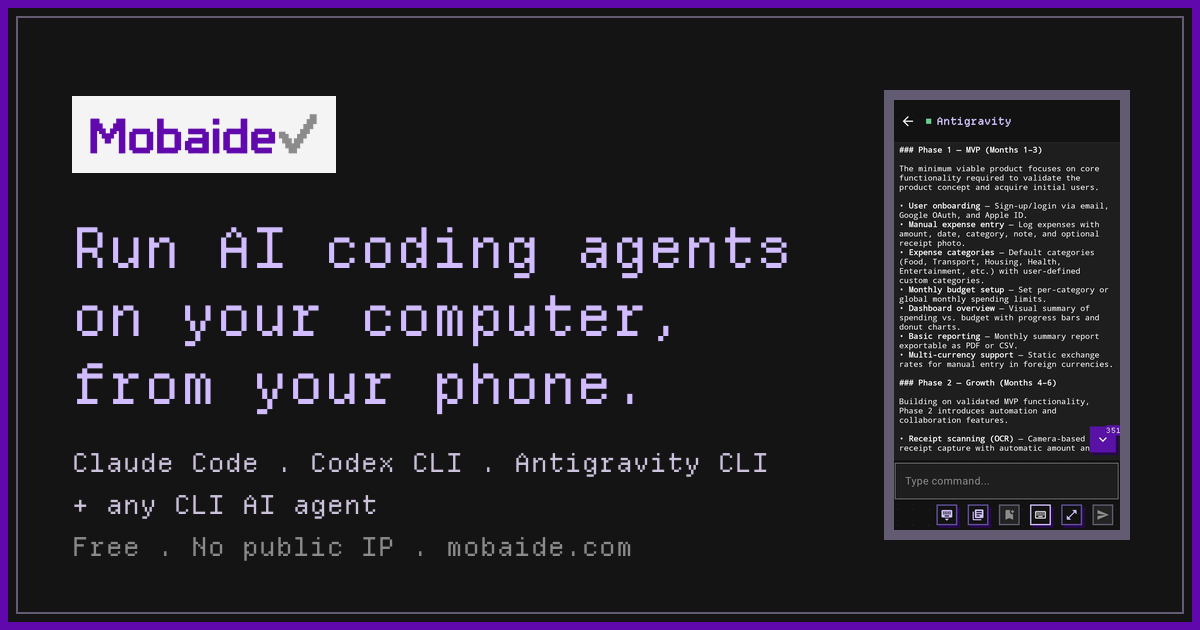
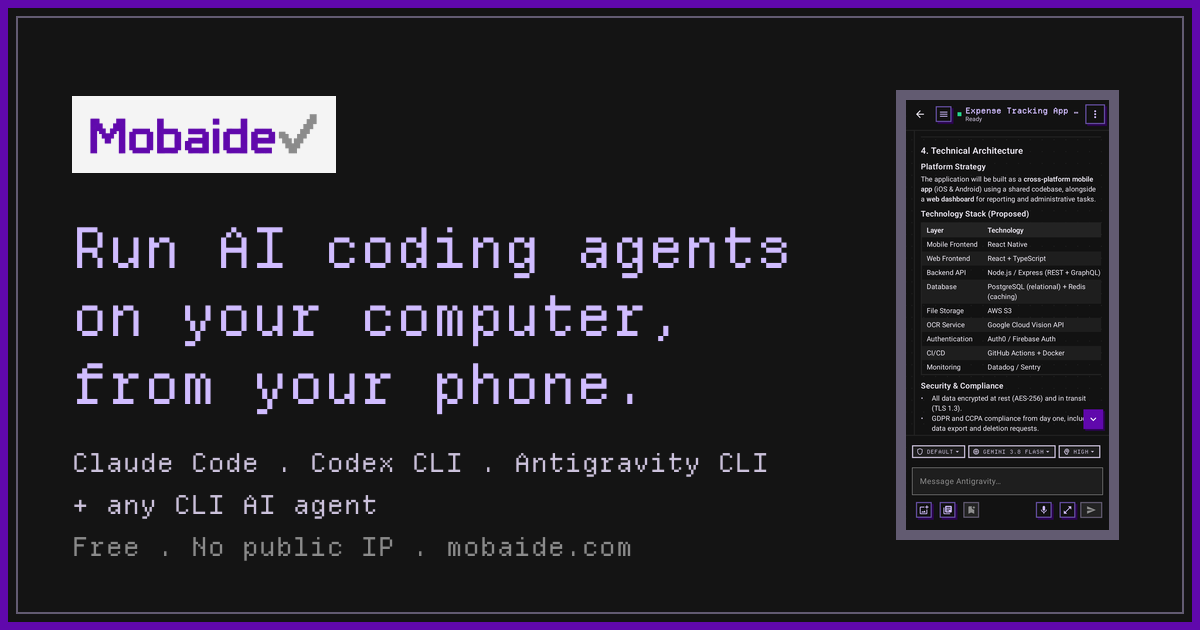
docs: show the ACP chat UI on the website and README
Replace the terminal screenshots with the new chat view: the OG card,
the Android/iOS in-session captures, and the landing hero (now the web
app chat in a browser frame instead of the typewriter terminal mock).
Rewrite the "real terminal" / "real PTY" copy around the chat view,
keeping Terminal UI for the CLI's own interface, shells and custom types.

Changed region(s): [[0.7092, 0.1508, 0.9558, 0.8746]]

diff --git a/central_server/templates/marketing_landing.html b/central_server/templates/marketing_landing.html
@@ -19,7 +19,7 @@
 <meta charset="utf-8">
 <meta name="viewport" content="width=device-width, initial-scale=1">
 <title>Mobaide — run Claude Code, Codex CLI and Antigravity CLI from your phone</title>
-<meta name="description" content="Mobaide turns your phone into a real terminal for AI coding agents running on your own computer. Free, and no public IP, port forwarding, VPN or SSH.">
+<meta name="description" content="Mobaide puts the AI coding agents on your own computer in your phone, as a native chat or a real terminal. Free, and no public IP, port forwarding, VPN or SSH.">
 <link rel="canonical" href="{{ site_origin }}/">
 <meta name="theme-color" content="#121212">
 
@@ -27,7 +27,7 @@
 <meta property="og:site_name" content="Mobaide">
 <meta property="og:url" content="{{ site_origin }}/">
 <meta property="og:title" content="Mobaide — run AI coding agents on your computer, from your phone">
-<meta property="og:description" content="A real terminal for Claude Code, Codex CLI, Antigravity CLI and your own agents, running on your own machine. Free, and nothing to open on your network.">
+<meta property="og:description" content="A native chat for Claude Code, Codex CLI and Antigravity CLI, and a real terminal for your own agents, all running on your own machine. Free, and nothing to open on your network.">
 <meta property="og:image" content="{{ site_origin }}/static/site/img/og.png">
 <meta property="og:image:width" content="1200">
 <meta property="og:image:height" content="630">
@@ -36,7 +36,7 @@
 
 <meta name="twitter:card" content="summary_large_image">
 <meta name="twitter:title" content="Mobaide — run AI coding agents on your computer, from your phone">
-<meta name="twitter:description" content="A real terminal for Claude Code, Codex CLI, Antigravity CLI and your own agents, running on your own machine. Free, and nothing to open on your network.">
+<meta name="twitter:description" content="A native chat for Claude Code, Codex CLI and Antigravity CLI, and a real terminal for your own agents, all running on your own machine. Free, and nothing to open on your network.">
 <meta name="twitter:image" content="{{ site_origin }}/static/site/img/og.png">
 
 <link rel="icon" href="/static/site/img/favicon.ico" sizes="16x16 32x32 48x48">
@@ -61,7 +61,7 @@
   "url": "{{ site_origin }}/",
   "applicationCategory": "DeveloperApplication",
   "operatingSystem": "Android, iOS",
-  "description": "Mobaide turns your phone into a real terminal for AI coding agents — Claude Code, Codex CLI, Antigravity CLI, custom agent types and raw shells — running on your own Windows, macOS or Linux computer. No public IP, port forwarding, VPN or SSH.",
+  "description": "Mobaide puts AI coding agents running on your own Windows, macOS or Linux computer in your phone: a native chat for Claude Code, Codex CLI and Antigravity CLI, and a real terminal for custom agent types and raw shells. No public IP, port forwarding, VPN or SSH.",
   "image": "{{ site_origin }}/static/site/img/og.png",
   "downloadUrl": [
     "https://play.google.com/store/apps/details?id=com.mobaide.app",
@@ -105,11 +105,12 @@
 
 <main id="main">
 
-  <section class="hero">
+  <section class="hero hero-wide">
     <div class="hero-copy">
       <h1>Run AI coding agents on your computer, from your phone.</h1>
       <p class="lede">
-        Mobaide puts a real terminal in your pocket. Start, watch and steer
+        Mobaide puts your coding agents in your pocket, in a chat built for
+        the phone. Start, watch and steer
         <strong>Claude Code</strong>, <strong>Codex CLI</strong>,
         <strong>Antigravity CLI</strong> or agents you define yourself on your own
         Windows, macOS or Linux machine — with nothing to open on your network.
@@ -142,26 +143,15 @@
       </p>
     </div>
 
-    <div class="hero-term">
-      <div class="term px-frame" data-typewriter aria-label="Example Mobaide session">
-        <div class="term-bar"><span class="term-dot"></span>mobaide — macbook-pro</div>
-        {# Lines are kept to ~42 characters so the transcript needs no
-           horizontal scroll even at a 320px viewport. #}
-        <pre class="term-body"><code><span class="t-line"><span class="t-ink"><span class="c-dim">$</span> mobaide status</span></span>
-<span class="t-line"><span class="t-ink">agent  <span class="c-ok">online</span>  macbook-pro  proto 7</span></span>
-<span class="t-line"><span class="t-ink"> </span></span>
-<span class="t-line"><span class="t-ink"><span class="c-dim">#</span> from the app: Claude Code + worktree</span></span>
-<span class="t-line"><span class="t-ink"><span class="c-accent">▸</span> a4f1c2  claude  ~/dev/api-server</span></span>
-<span class="t-line"><span class="t-ink">  worktree mobaide_worktree/retry-fix</span></span>
-<span class="t-line"><span class="t-ink"> </span></span>
-<span class="t-line"><span class="t-ink">Reading src/http/retry.py …</span></span>
-<span class="t-line"><span class="t-ink">The retry helper swallows the timeout</span></span>
-<span class="t-line"><span class="t-ink">instead of re-raising, so the caller</span></span>
-<span class="t-line"><span class="t-ink">sees a null response. Fixing.</span></span>
-<span class="t-line"><span class="t-ink"> </span></span>
-<span class="t-line"><span class="t-ink"><span class="c-ok">✓</span> 48 tests passed</span></span></code></pre>
+    {# Above the fold, so no loading="lazy": it is the page's largest paint. #}
+    <figure class="hero-shot">
+      <div class="browser">
+        <div class="browser-bar" aria-hidden="true"><span class="browser-dot"></span><span class="browser-dot"></span><span class="browser-dot"></span><span class="browser-url">app.mobaide.com</span></div>
+        <img src="/static/site/img/shot-web-chat.webp?v={{ asset_version }}" width="1400" height="742"
+             decoding="async" fetchpriority="high"
+             alt="The Mobaide web app in an Antigravity CLI chat session: the session list on the left, a Markdown answer with headings and a table, and mode, model and effort chips over the message field.">
       </div>
-    </div>
+    </figure>
   </section>
 
   <section class="strip" aria-label="At a glance">
@@ -231,8 +221,9 @@
         <h3>Start an agent</h3>
         <p>
           Pick a project, pick what to run — Claude Code, Codex CLI, Antigravity
-          CLI, a raw shell, or one of your own agent types — and drive it from
-          the terminal view.
+          CLI, a raw shell, or one of your own agent types. Claude Code, Codex
+          and Antigravity open as a chat; shells and your own types open in a
+          terminal.
         </p>
       </li>
     </ol>
@@ -241,6 +232,30 @@
   <section id="features" class="section" data-reveal>
     <h2 class="h-pixel">What you get</h2>
     <div class="grid">
+
+      <article class="card card-feature notch">
+        <div class="card-head">
+          <span class="card-ico">
+            <svg viewBox="0 0 24 24" width="24" height="24" shape-rendering="crispEdges" aria-hidden="true" focusable="false"><path fill-rule="evenodd" d="M2 3h20v13H2zM4 5v9h16V5z"/><rect x="5" y="16" width="4" height="2"/><rect x="5" y="18" width="2" height="2"/><rect x="7" y="7" width="10" height="2"/><rect x="7" y="10" width="6" height="2"/></svg>
+          </span>
+          <span class="chip chip-brand chip-sm">New</span>
+        </div>
+        <h3>A chat built for the phone</h3>
+        {# Facts from docs/features.md "Chat Sessions". The chat is the default
+           for the three built-ins only; custom types and Terminal stay a PTY,
+           and the built-ins keep a Terminal UI toggle under Advanced. #}
+        <p>
+          Claude Code, Codex CLI and Antigravity CLI sessions open as a native
+          chat: Markdown answers, one card per tool call with its diff, approval
+          buttons, questions and plan progress. Continue a session you started
+          in a terminal on your computer.
+        </p>
+        <p>
+          Need the CLI's own interface? Turn on <strong>Terminal UI</strong> for
+          a full two-way terminal. Raw shells and your own agent types always
+          get one.
+        </p>
+      </article>
 
       {# The short mention; /voice-input carries the full story. Same accuracy
          rules: opt-in per computer, transcribed on the user's own machine,
@@ -359,24 +374,6 @@
       <article class="card notch">
         <div class="card-head">
           <span class="card-ico">
-            <svg viewBox="0 0 24 24" width="24" height="24" shape-rendering="crispEdges" aria-hidden="true" focusable="false"><path fill-rule="evenodd" d="M1 3h22v18H1zM3 5v14h18V5z"/><rect x="5" y="8" width="2" height="2"/><rect x="7" y="10" width="2" height="2"/><rect x="5" y="12" width="2" height="2"/><rect x="11" y="13" width="6" height="2"/></svg>
-          </span>
-        </div>
-        <h3>A real PTY, not a log tail</h3>
-        <p>
-          {# Deliberately no line count: reconnect replays from a byte ring
-             (RING_MAX_BYTES = 4 MiB, core/session.py), not from the 10,000-entry
-             scrollback deque — that one holds arbitrary read chunks and feeds
-             the REST /scrollback endpoint instead. #}
-          Full two-way terminal I/O, so TUIs behave: arrow keys, Ctrl-C, plan
-          mode, approval prompts. Every session keeps a rolling buffer of recent
-          output, so a dropped connection replays instead of losing it.
-        </p>
-      </article>
-
-      <article class="card notch">
-        <div class="card-head">
-          <span class="card-ico">
             <svg viewBox="0 0 24 24" width="24" height="24" shape-rendering="crispEdges" aria-hidden="true" focusable="false"><rect x="2" y="3" width="4" height="4"/><rect x="8" y="4" width="14" height="2"/><rect x="2" y="10" width="4" height="4"/><rect x="8" y="11" width="14" height="2"/><rect x="2" y="17" width="4" height="4"/><rect x="8" y="18" width="14" height="2"/></svg>
           </span>
         </div>
@@ -424,11 +421,11 @@
         <div class="shots">
           <figure class="shot">
             <div class="device">
-              <img src="/static/site/img/shot-android-terminal.webp?v={{ asset_version }}" width="420" height="835"
+              <img src="/static/site/img/shot-android-chat.webp?v={{ asset_version }}" width="420" height="890"
                    loading="lazy" decoding="async"
-                   alt="A running Antigravity session in Mobaide for Android, with a command field and control-key bar.">
+                   alt="An Antigravity CLI chat in Mobaide for Android: a Markdown answer with a table, mode, model and effort chips, and the command field.">
             </div>
-            <figcaption>A live coding session, driven from the phone.</figcaption>
+            <figcaption>A live coding session, as a chat built for the phone.</figcaption>
           </figure>
           <figure class="shot">
             <div class="device">
@@ -503,11 +500,11 @@
         <div class="shots">
           <figure class="shot">
             <div class="device">
-              <img src="/static/site/img/shot-ios-terminal.webp?v={{ asset_version }}" width="420" height="859"
+              <img src="/static/site/img/shot-ios-chat.webp?v={{ asset_version }}" width="420" height="855"
                    loading="lazy" decoding="async"
-                   alt="A running Antigravity session in Mobaide for iOS, with a message field and control-key bar.">
+                   alt="An Antigravity CLI chat in Mobaide for iOS: a Markdown answer with a table, mode, model and effort chips, and the message field.">
             </div>
-            <figcaption>A live coding session, driven from the phone.</figcaption>
+            <figcaption>A live coding session, as a chat built for the phone.</figcaption>
           </figure>
           <figure class="shot">
             <div class="device">
@@ -617,8 +614,8 @@
       <details>
         <summary>What leaves my machine?</summary>
         <p>
-          Session traffic is <strong>relayed, not stored</strong>: your keystrokes,
-          the terminal output and any
+          Session traffic is <strong>relayed, not stored</strong>: your messages
+          and keystrokes, the agent's replies and terminal output, and any
           <a href="/voice-input">voice dictation</a> audio pass through the
           relay's in-memory routing and are then discarded — never appended to
           its database, log files or backups. Server-side logs record

diff --git a/central_server/static/site/site.css b/central_server/static/site/site.css
@@ -415,7 +415,22 @@ h1 {
   font-size: 0.875rem;
 }
 
-/* ---------- hero terminal ---------- */
+/* ---------- hero web-app capture ---------- */
+
+/* A <figure>, so reset its UA margin; keep room for the .browser offset
+   shadow on the right and bottom. */
+.hero-shot {
+  margin: 0 var(--px) var(--px) 0;
+}
+
+/* A wide desktop capture needs more of the row than the old terminal mock.
+   Same specificity as `.hero`, so the single-column rule under 900px still
+   wins by coming later. */
+.hero-wide {
+  grid-template-columns: minmax(0, 0.85fr) minmax(0, 1.15fr);
+}
+
+/* ---------- hero terminal (the /voice-input mock) ---------- */
 
 .term {
   background: var(--surface);

diff --git a/docs/website.md b/docs/website.md
@@ -71,7 +71,7 @@ white.
 | `central_server/static/site/portal.css` | Additions `site.css` lacks (the landing page has no forms): inputs, labels, radios, alerts, tables, choice fieldsets, legal-doc layout. Loaded **after** `site.css`. Declares no tokens and no `@font-face`. |
 | `central_server/templates/portal_base.html` | Shell for the static pages — loads both sheets, carries the shared chrome markup, and loads **no script at all**. |
 | `central_server/static/style.css` | **Admin dashboard only.** Light sheet (`--primary: #0d6efd`, `--radius: 6px`), not part of this design system. |
-| `central_server/static/site/site.js` | Reveal-on-scroll, hero typewriter, copy buttons, the Android/iOS screenshot switch, and the cookie-consent banner with its post-consent Google Ads gtag.js loader. The two marketing pages only — `portal_base.html` does not load it. |
+| `central_server/static/site/site.js` | Reveal-on-scroll, the `/voice-input` hero typewriter, copy buttons, the Android/iOS screenshot switch, and the cookie-consent banner with its post-consent Google Ads gtag.js loader. The two marketing pages only — `portal_base.html` does not load it. |
 | `central_server/static/site/img/`, `fonts/` | Assets — see *Regenerating assets*. |
 | `README.md` (repo root) | Embeds `og.png`, both store badges, five `shot-android-*.webp` and `shot-web-voice.webp` by relative path. Rename or remove one of those images and the README breaks. Its voice input numbers and section links mirror `/voice-input`, so change them together. |
 
@@ -404,7 +404,7 @@ both are asserted in `test_marketing.py` and `test_portal.py`.
   light background (lifted from the app icon).
 - All motion is gated on `prefers-reduced-motion: reduce`.
 - Animation start-states are gated on a `js` class that `site.js` sets from
-  `<head>`, and the hero transcript's hidden state self-releases on every exit
+  `<head>`, and the `/voice-input` hero transcript's hidden state self-releases on every exit
   path (finished, reduced-motion, no `IntersectionObserver`, or a 2.5s
   watchdog). **Never add a hidden-by-default state that only a successful
   animation can undo.**
@@ -507,8 +507,8 @@ answer and the shared footer; the sitemap lists it.
 - **The hero is a drawn mock** (`.voice-demo`, `.dict-*` in `site.css`, inside one
   `role="img"`) showing what no single capture can: recording, then the transcript
   waiting in the command field. Its recording bar copies the apps' (cancel, elapsed
-  time, level meter, stop), so keep the two in step. The transcript reuses the
-  landing page's typewriter (`[data-typewriter]`, one per page) and its watchdogs;
+  time, level meter, stop), so keep the two in step. The transcript uses the
+  `site.js` typewriter (`[data-typewriter]`, one per page) and its watchdogs;
   the level meter and recording dot stop under `prefers-reduced-motion`.
 - **Three captures, two frames.** `#screens` shows `shot-android-voice.webp` and
   `shot-ios-voice.webp` in the `.device` phone frame, then `shot-web-voice.webp` in
@@ -516,6 +516,10 @@ answer and the shared footer; the sitemap lists it.
   proportion with the phones). All three are bare captures.
 
 ## Screenshots and the platform switch
+
+The landing hero is a capture too: `shot-web-chat.webp`, the web app's chat view,
+in the same `.browser` frame as the `/voice-input` web capture. It is above the
+fold, so it is not `loading="lazy"`.
 
 `#screens` carries **two panels of nine captures each**, Android and iOS, behind an
 `aria` tab pair. The phone body around every capture is drawn by `.device` in CSS, so
@@ -624,6 +628,10 @@ a one-off script, not committed; recreate it when assets need to change:
    - Resize to 420px wide, WebP quality 72, name the output
      `shot-<android|ios>-<slug>.webp`, and record each file's encoded height (the
      template declares it).
+   - The in-session capture is `inside-session-acp.png` (the chat view), shipped as
+     `shot-<android|ios>-chat.webp`. The landing hero is the web app's
+     `web-app/Screenshots/inside-session-acp.png`, shipped as `shot-web-chat.webp`
+     at 1400px wide, quality 80, inside the same `.browser` frame as the voice page.
    - The `/voice-input` captures are the `voice-recognition.*` files in those two
      trees, plus the web app's `web-app/Screenshots/voice-recognition.png`, shipped
      as `shot-web-voice.webp` at 1600px wide, quality 80 so its small terminal text
@@ -631,7 +639,8 @@ a one-off script, not committed; recreate it when assets need to change:
 4. Icons: `favicon.ico` multi-size 16/32/48; `apple-touch-icon.png` at 180px
    quantized to 64 colours.
 5. OG card: 1200×630 **PNG or JPEG** (several scrapers reject WebP), composed
-   from the wordmark on a light plate plus the terminal screenshot.
+   from the wordmark on a light plate plus the Android chat screenshot
+   (`inside-session-acp.png`) in a 10px `#625B71` frame, 430px inner height.
 6. Font: `DepartureMono-Regular.woff2` from the
    [Departure Mono](https://github.com/rektdeckard/departure-mono) release,
    shipped whole at 22.5 KB with its OFL licence alongside (no subsetting step).

diff --git a/README.md b/README.md
@@ -28,7 +28,7 @@
 
 <table align="center">
   <tr>
-    <td align="center"><img src="central_server/static/site/img/shot-android-terminal.webp" width="165" alt="A running session with a command field and control-key bar."></td>
+    <td align="center"><img src="central_server/static/site/img/shot-android-chat.webp" width="165" alt="An Antigravity CLI chat: a Markdown answer with a table, mode, model and effort chips, and the command field."></td>
     <td align="center"><img src="central_server/static/site/img/shot-android-sessions.webp" width="165" alt="An Auto Scan and three running Claude Code and Codex sessions."></td>
     <td align="center"><img src="central_server/static/site/img/shot-android-modes.webp" width="165" alt="The mode picker: Claude Code, Codex, Antigravity, Auto Scan, Terminal and a custom agent."></td>
     <td align="center"><img src="central_server/static/site/img/shot-android-git-diff.webp" width="165" alt="A file diff with line numbers and a Changes / Full file switch."></td>
@@ -44,7 +44,7 @@
 ## Features
 
 - **A chat view built for the phone.** Claude Code, Codex and Antigravity sessions open as a native chat: Markdown answers, one card per tool call with its diff, approval buttons, questions, plan progress, mode and model chips. It runs over the [Agent Client Protocol](https://agentclientprotocol.com), and it can continue a Claude Code, Codex or Antigravity session you started in a terminal on your computer. Codex chats stay in sync with a session open in a terminal.
-- **A real terminal, not a log tail.** Full two-way PTY, so TUIs behave: arrow keys, Ctrl-C, plan mode, approval prompts. A rolling buffer of recent output replays after a dropped connection. Claude Code and Codex sessions offer it under Advanced as Terminal UI.
+- **A real terminal, not a log tail.** Full two-way PTY, so TUIs behave: arrow keys, Ctrl-C, plan mode, approval prompts. A rolling buffer of recent output replays after a dropped connection. Claude Code, Codex and Antigravity sessions offer it under Advanced as Terminal UI; raw shells and custom agents always use it.
 - **Your agents, your options.** Launch Claude Code, Codex CLI or Antigravity CLI with their own model, effort, sandbox and approval settings. Open a raw shell, or define an agent from any command your shell can run.
 - **Several sessions at once.** Keep a Claude Code run, a Codex review and a shell side by side, each with its own state.
 - **[Voice input](#voice-input).** Dictate prompts instead of thumb-typing them. Your own computer does the transcription, in 25 languages. Opt-in, and the audio is never stored.
@@ -98,7 +98,7 @@ irm https://get.mobaide.com/install.ps1 | iex
 
 **2. Get a client and pair.** Install the [Android](https://play.google.com/store/apps/details?id=com.mobaide.app) (8.0+) or [iPhone](https://apps.apple.com/app/id6797191741) (iOS 17+) app, then scan the QR code the agent prints. In a browser, open the pairing link the agent prints and sign in at [app.mobaide.com](https://app.mobaide.com).
 
-**3. Start a session.** Pick a project, pick what to run, and drive it from the terminal view.
+**3. Start a session.** Pick a project, pick what to run, and drive it from the chat view, or from the terminal view for shells and custom agents.
 
 ## How it works
 
